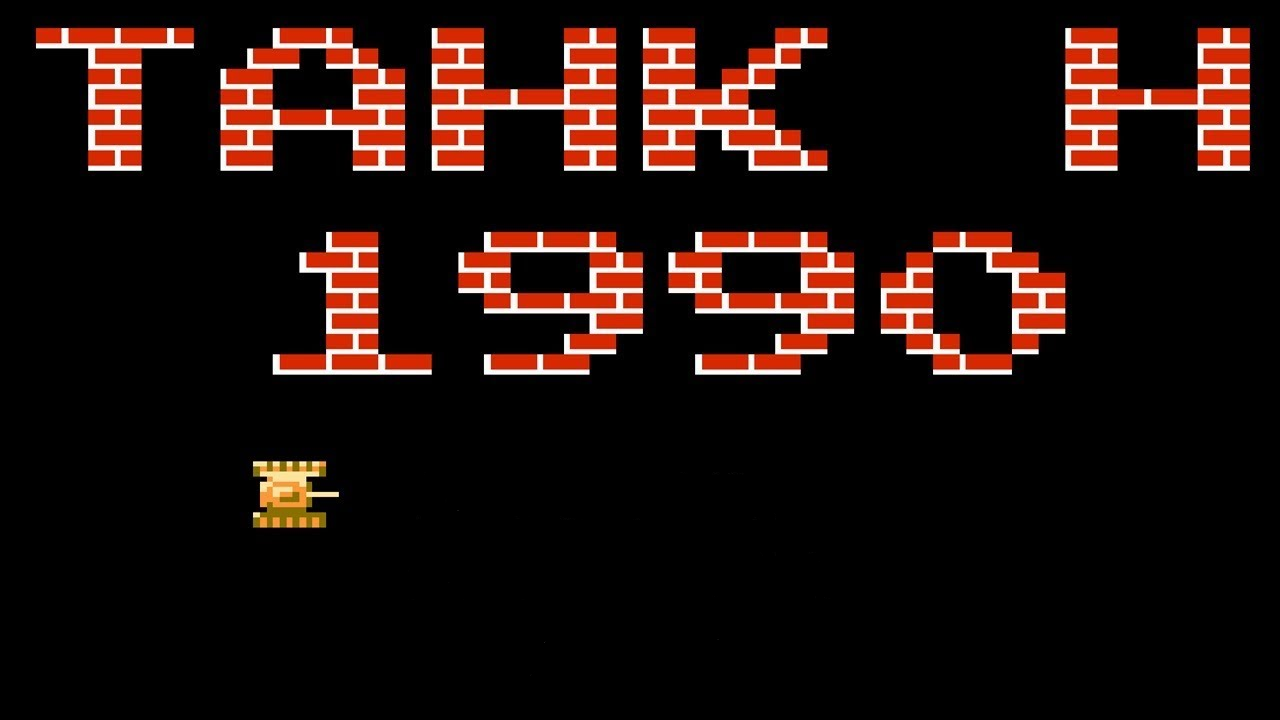
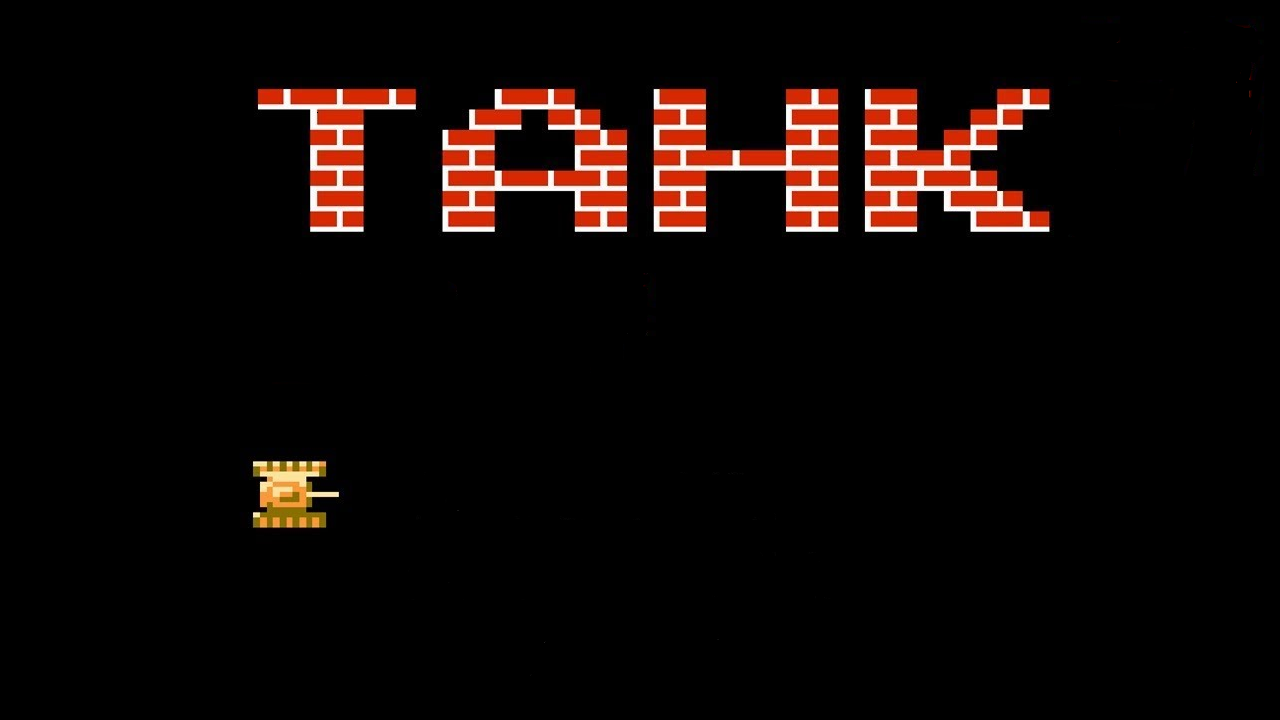
Новая заставка и убийство ненужных кнопок

Changed region(s): [[0.1562, 0.0306, 1.0, 0.5194], [0.0, 0.0306, 0.1562, 0.2444]]

diff --git a/1.py b/1.py
@@ -497,18 +497,18 @@ def terminate():
 
 
 def start_screen():
-    fon = pygame.transform.scale(load_image('fon.png'), (WIDTH, HEIGHT))
+    fon = pygame.transform.scale(load_image('new.png'), (WIDTH, HEIGHT))
     screen.blit(fon, (0, 0))
 
     while True:
-        button_sologame = Button(200, 40, (255, 0, 0), (100, 0, 0))
-        button_sologame.draw(300, 390, '1 Player')
+        #button_sologame = Button(200, 40, (255, 0, 0), (100, 0, 0))
+        #button_sologame.draw(300, 390, '1 Player')
 
         button_pvpgame = Button(200, 40, (255, 0, 0), (100, 0, 0))
         button_pvpgame.draw(300, 450, '2 Players', maps_menu)
 
-        button_build = Button(200, 40, (255, 0, 0), (100, 0, 0))
-        button_build.draw(300, 510, 'Building')
+        #button_build = Button(200, 40, (255, 0, 0), (100, 0, 0))
+        #button_build.draw(300, 510, 'Building')
 
         button_exit = Button(100, 40, (0, 0, 0), (50, 50, 50))
         button_exit.draw(699, 559, 'Exit', end_game)
